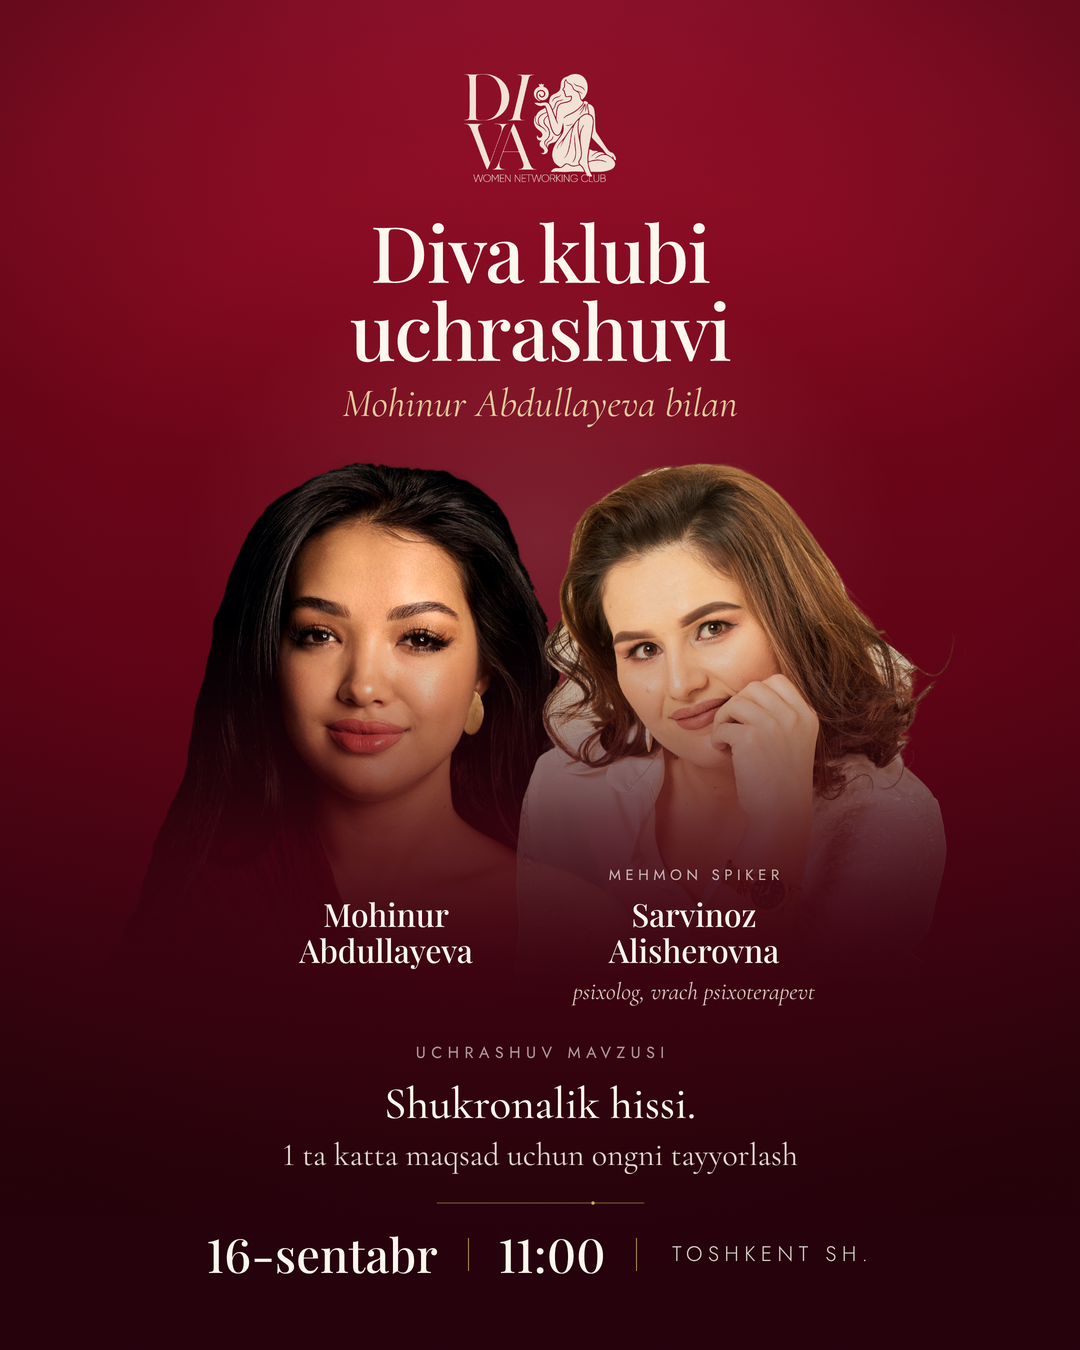
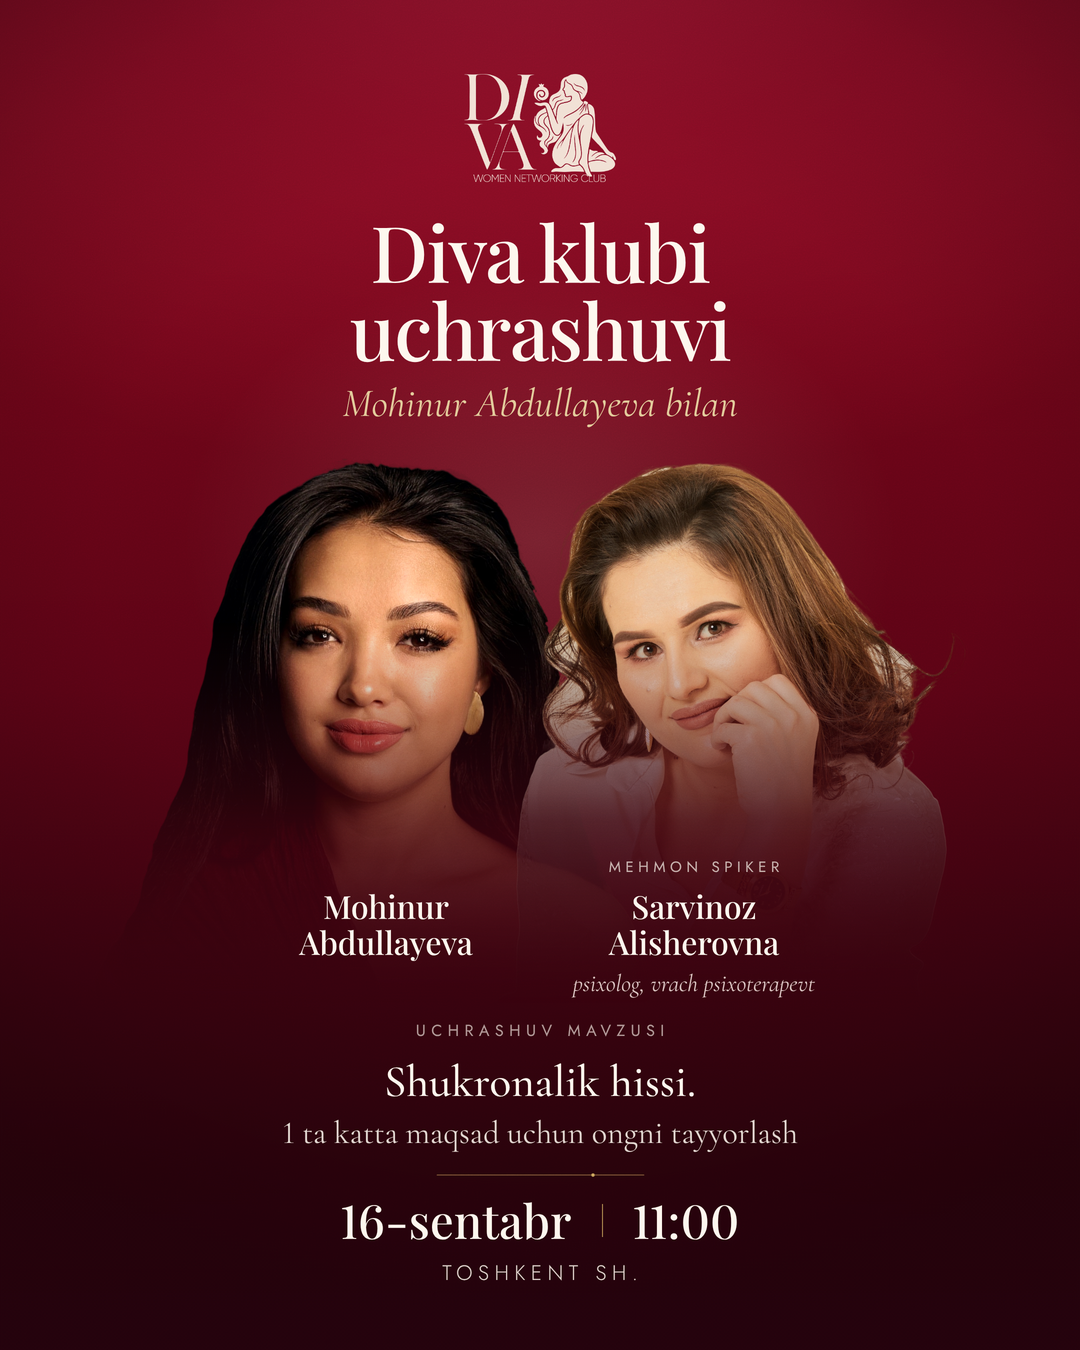
Grow direction A's figures at 9:16 and restack the date
The tall canvas had the smallest figures of the set; the frames grow to
690px (+23% face scale) and the reclaimed height goes into the type
stack's rhythm rather than open ground.

The column's apparent left drift was the date row: a heavy Playfair date
against a thin tracked venue line measured 124px left of centre while
being geometrically centred. Splitting it into two centred lines brings
every band within 6px of the axis, applied across all three ratios so
the set keeps one alignment logic.

Claude-Session: https://claude.ai/code/session_01CJcxAKvhDYH9Z96uyo456t

Changed region(s): [[0.1833, 0.6222, 0.7639, 0.9644], [0.275, 0.6533, 0.4583, 0.7156]]

diff --git a/diva-club-posts/variant-a.html b/diva-club-posts/variant-a.html
@@ -33,6 +33,7 @@
   --figOv: 196px;           /* how far the two boxes overlap               */
   --stageTop: 452px;
   --stageShift: 17px;       /* centres the pair on the two FACES, not boxes */
+  --maskX: 6%;              /* softener where a silhouette runs out of frame */
   --fadeA: 48%;             /* body fully opaque until here                */
   --fadeB: 82%;             /* body fully dissolved from here              */
   --sinkA: 26%;             /* maroon starts drinking the body here        */
@@ -109,9 +110,9 @@ figure { margin: 0; }
   position: absolute;
   inset: 0;
   -webkit-mask-image: linear-gradient(90deg,
-      rgba(0,0,0,0) 0%, #000 6%, #000 94%, rgba(0,0,0,0) 100%);
+      rgba(0,0,0,0) 0%, #000 var(--maskX), #000 calc(100% - var(--maskX)), rgba(0,0,0,0) 100%);
           mask-image: linear-gradient(90deg,
-      rgba(0,0,0,0) 0%, #000 6%, #000 94%, rgba(0,0,0,0) 100%);
+      rgba(0,0,0,0) 0%, #000 var(--maskX), #000 calc(100% - var(--maskX)), rgba(0,0,0,0) 100%);
 }
 .fig--m img { filter: brightness(1.05) contrast(1.02); }
 .fig--s img { filter: brightness(.97) contrast(1.03) saturate(.88); }
@@ -128,6 +129,13 @@ figure { margin: 0; }
     rgba(48, 2, 12, 1)  100%);
   -webkit-mask-size: cover;         mask-size: cover;
   -webkit-mask-repeat: no-repeat;   mask-repeat: no-repeat;
+}
+.fig--s .sink {
+  background: linear-gradient(180deg,
+    rgba(60, 3, 16, 0)   var(--sinkA),
+    rgba(57, 3, 15, .76) var(--sinkM),
+    rgba(50, 2, 13, .97) var(--fadeB),
+    rgba(48, 2, 12, 1)  100%);
 }
 .fig--m .sink {
   -webkit-mask-image: url("assets/cutout/mohinur-cut-soft.png");
@@ -275,6 +283,8 @@ figure { margin: 0; }
   flex: 0 0 auto;
 }
 .city {
+  display: block;
+  margin: var(--gapCity) 0 0;
   font-family: var(--sans);
   font-weight: 300;
   font-size: var(--fsCity);
@@ -286,47 +296,47 @@ figure { margin: 0; }
 
 /* ===================================================================== 9:16 */
 html[data-r="9x16"] .canvas {
-  --padX: 88px; --gTop: 100px; --gBot: 96px;
-  --logoW: 190px; --gapLogo: 44px; --gapHost: 16px;
-  --figW: 562px; --figH: 830px; --figOv: 220px;
-  --stageTop: 566px; --stageShift: 17px;
-  --fadeA: 64%; --fadeB: 92%; --sinkA: 30%; --sinkM: 58%;
-  --namesTop: 1300px; --capW: 420px; --capOff: 143px; --scrimTop: 1040px;
-  --fsTitle: 102px; --fsHost: 47px;
-  --fsTag: 17px; --fsName: 40px; --fsRole: 28px;
-  --fsLbl: 19px; --fsTopic: 56px; --fsTopic2: 39px;
-  --fsDate: 57px; --fsCity: 25px;
-  --markW: 300px; --gapMark: 40px; --gapWhen: 34px; --whenGap: 38px;
+  --padX: 88px; --gTop: 96px; --gBot: 92px;
+  --logoW: 178px; --gapLogo: 38px; --gapHost: 14px;
+  --figW: 690px; --figH: 885px; --figOv: 296px;
+  --stageTop: 548px; --stageShift: 12px; --maskX: 9%;
+  --fadeA: 58%; --fadeB: 77%; --sinkA: 46%; --sinkM: 60%;
+  --namesTop: 1262px; --capW: 420px; --capOff: 162px; --scrimTop: 1060px;
+  --fsTitle: 96px; --fsHost: 47px;
+  --fsTag: 18px; --fsName: 42px; --fsRole: 29px;
+  --fsLbl: 19px; --fsTopic: 58px; --fsTopic2: 39px;
+  --fsDate: 58px; --fsCity: 25px;
+  --markW: 300px; --gapMark: 36px; --gapWhen: 28px; --whenGap: 40px; --gapCity: 14px;
 }
 
 /* ====================================================================== 4:5 */
 html[data-r="4x5"] .canvas {
-  --padX: 78px; --gTop: 74px; --gBot: 70px;
+  --padX: 78px; --gTop: 74px; --gBot: 62px;
   --logoW: 152px; --gapLogo: 30px; --gapHost: 12px;
   --figW: 560px; --figH: 656px; --figOv: 196px;
-  --stageTop: 452px; --stageShift: 17px;
+  --stageTop: 452px; --stageShift: 17px; --maskX: 6%;
   --fadeA: 52%; --fadeB: 84%; --sinkA: 26%; --sinkM: 56%;
-  --namesTop: 866px; --capW: 420px; --capOff: 154px; --scrimTop: 690px;
+  --namesTop: 858px; --capW: 420px; --capOff: 154px; --scrimTop: 690px;
   --fsTitle: 78px; --fsHost: 40px;
   --fsTag: 15px; --fsName: 32px; --fsRole: 24px;
   --fsLbl: 16px; --fsTopic: 45px; --fsTopic2: 32px;
   --fsDate: 47px; --fsCity: 21px;
-  --markW: 240px; --gapMark: 24px; --gapWhen: 22px; --whenGap: 30px;
+  --markW: 240px; --gapMark: 18px; --gapWhen: 16px; --whenGap: 30px; --gapCity: 12px;
 }
 
 /* ====================================================================== 1:1 */
 html[data-r="1x1"] .canvas {
-  --padX: 72px; --gTop: 56px; --gBot: 58px;
+  --padX: 72px; --gTop: 56px; --gBot: 56px;
   --logoW: 108px; --gapLogo: 12px; --gapHost: 4px;
   --figW: 537px; --figH: 690px; --figOv: 138px;
-  --stageTop: 308px; --stageShift: 16px;
-  --fadeA: 50%; --fadeB: 68%; --sinkA: 30%; --sinkM: 52%;
-  --namesTop: 722px; --capW: 400px; --capOff: 173px; --scrimTop: 560px;
+  --stageTop: 308px; --stageShift: 16px; --maskX: 6%;
+  --fadeA: 48%; --fadeB: 66%; --sinkA: 30%; --sinkM: 52%;
+  --namesTop: 698px; --capW: 400px; --capOff: 173px; --scrimTop: 560px;
   --fsTitle: 54px; --fsHost: 30px;
   --fsTag: 13px; --fsName: 27px; --fsRole: 21px;
   --fsLbl: 14px; --fsTopic: 34px; --fsTopic2: 24px;
   --fsDate: 38px; --fsCity: 17px;
-  --markW: 170px; --gapMark: 16px; --gapWhen: 15px; --whenGap: 24px;
+  --markW: 170px; --gapMark: 18px; --gapWhen: 14px; --whenGap: 24px; --gapCity: 9px;
 }
 /* 1:1 is the compact cut — single-line names keep the stack tight */
 html[data-r="1x1"] .nm br { display: none; }
@@ -382,9 +392,8 @@ html[data-r="1x1"] .nm { white-space: nowrap; }
       <span class="d num">16-sentabr</span>
       <i class="v"></i>
       <span class="d num">11:00</span>
-      <i class="v"></i>
-      <span class="city">Toshkent sh.</span>
     </div>
+    <p class="city">Toshkent sh.</p>
   </footer>
 </div>
 </body>

diff --git a/diva-club-posts/variant-c.html b/diva-club-posts/variant-c.html
@@ -233,25 +233,56 @@
 /* ======================================================= ratio overrides = */
 
 /* ---- 9:16 — full-height portrait, type column left, figure bottom-right -- */
+/* Story-safe: platform chrome eats the top 140px and the bottom 250px of the
+   1920 frame, so the masthead drops clear of the first band and the whole
+   information stack is lifted clear of the second. The portrait rides up with
+   it so the type still lands below her chin, on a dark field. */
 html[data-r="9x16"] .canvas {
-  --hz: 118%; --hx: -57px; --hy: -215px;
-  --sz: 165%; --sx: -93px; --sy: 66px;
+  --hz: 118%; --hx: -57px; --hy: -312px;
+  --sz: 165%; --sx: 7px; --sy: 10px;
   --t-title: 116px; --t-with: 46px; --t-theme: 44px; --t-name: 38px;
   --t-role: 29px; --t-date: 48px; --t-city: 23px;
   --col: 500px;
 }
-html[data-r="9x16"] .sarv { width: 480px; height: 820px; }
+/* wide enough that her silhouette is never sliced by the box: the only cuts
+   on her are the right and bottom canvas edges */
+html[data-r="9x16"] .sarv { width: 580px; height: 828px; }
+html[data-r="9x16"] .mark { top: 152px; }
+html[data-r="9x16"] .stack { bottom: 280px; }
+html[data-r="9x16"] .hero > .scrim {
+  background: linear-gradient(180deg,
+      rgba(34,1,8,0.50) 0%,
+      rgba(34,1,8,0.12) 7%,
+      rgba(34,1,8,0.00) 18%,
+      rgba(34,1,8,0.00) 33.6%,
+      rgba(34,1,8,0.24) 36.2%,
+      rgba(34,1,8,0.64) 38.4%,
+      rgba(34,1,8,0.90) 40.4%,
+      #34020c 42.6%,
+      #34020c 100%);
+}
+html[data-r="9x16"] .title { line-height: 0.94; }
+html[data-r="9x16"] .with { margin-top: 10px; }
+html[data-r="9x16"] .r1 { margin-top: 28px; }
+html[data-r="9x16"] .r2 { margin-top: 26px; }
+html[data-r="9x16"] .row { margin-top: 26px; }
+html[data-r="9x16"] .theme-text { margin-top: 10px; }
+html[data-r="9x16"] .spk { margin-top: 30px; }
+html[data-r="9x16"] .name { margin-top: 8px; }
+html[data-r="9x16"] .when { margin-top: 22px; }
+html[data-r="9x16"] .city { margin-top: 10px; }
 
 /* ---- 4:5 — same logic, tighter: portrait dominates, figure bottom-right -- */
 html[data-r="4x5"] .canvas {
   --hz: 126%; --hx: -30px; --hy: -200px;
-  --sz: 197%; --sx: -82px; --sy: 15px;
+  --sz: 197%; --sx: -2px; --sy: 15px;
   --t-title: 76px; --t-with: 35px; --t-label: 15px; --t-theme: 33px;
   --t-name: 30px; --t-role: 24px; --t-date: 40px; --t-city: 19px;
   --col: 470px;
 }
 html[data-r="4x5"] .mark { width: 190px; }
-html[data-r="4x5"] .sarv { width: 500px; height: 600px; }
+/* box widened past her silhouette: the only cuts on her are canvas edges */
+html[data-r="4x5"] .sarv { width: 580px; height: 600px; }
 html[data-r="4x5"] .r1 { margin-top: 32px; }
 html[data-r="4x5"] .r2 { margin-top: 30px; }
 html[data-r="4x5"] .row { margin-top: 30px; }
@@ -260,20 +291,43 @@ html[data-r="4x5"] .when { margin-top: 22px; }
 html[data-r="4x5"] .city { margin-top: 14px; }
 
 /* ---- 1:1 — photo block + standing figure over one full-width type band -- */
+/* The hero is not a panel. It bleeds off the top and left canvas edges and its
+   two free edges are dissolved into the ground colour, so Mohinur sinks into
+   the maroon exactly the way Sarvinoz does — no box, no free-floating corner.
+   --hz is a pixel height here so the crop is independent of the sink depth. */
 html[data-r="1x1"] .canvas {
-  --band: 548px;
+  --band: 664px;
   --seam: 560px;
-  --hz: 230%; --hx: -141px; --hy: -104px;
+  --hz: 1260px; --hx: -141px; --hy: -104px;
   --sz: 168%; --sx: -11px; --sy: -5px;
   --t-title: 62px; --t-with: 32px; --t-label: 13px; --t-theme: 28px;
   --t-name: 28px; --t-role: 22px; --t-date: 36px; --t-city: 16px;
   --col: 100%;
 }
 html[data-r="1x1"] .hero { inset: 0 auto auto 0; width: var(--seam); height: var(--band); }
+/* bottom edge -> ground */
 html[data-r="1x1"] .hero > .scrim {
-  background: linear-gradient(180deg, rgba(34,1,8,0.34) 0%, rgba(34,1,8,0) 14%);
+  background: linear-gradient(180deg,
+      rgba(34,1,8,0.34) 0px,
+      rgba(34,1,8,0.00) 96px,
+      rgba(34,1,8,0.00) 424px,
+      rgba(34,1,8,0.16) 478px,
+      rgba(34,1,8,0.46) 524px,
+      rgba(34,1,8,0.76) 568px,
+      rgba(34,1,8,0.93) 608px,
+      #34020c 650px);
 }
-html[data-r="1x1"] .hero > .side { background: linear-gradient(90deg, rgba(34,1,8,0.26) 0%, rgba(34,1,8,0) 22%); }
+/* left edge quieted for the masthead, right edge -> ground */
+html[data-r="1x1"] .hero > .side {
+  background: linear-gradient(90deg,
+      rgba(34,1,8,0.26) 0px,
+      rgba(34,1,8,0.00) 150px,
+      rgba(34,1,8,0.00) 396px,
+      rgba(34,1,8,0.26) 452px,
+      rgba(34,1,8,0.62) 498px,
+      rgba(34,1,8,0.90) 536px,
+      #34020c 558px);
+}
 html[data-r="1x1"] .mark { width: 150px; top: 62px; left: 62px; }
 /* she stands past the photo block's baseline and dissolves before the type */
 html[data-r="1x1"] .sarv {
